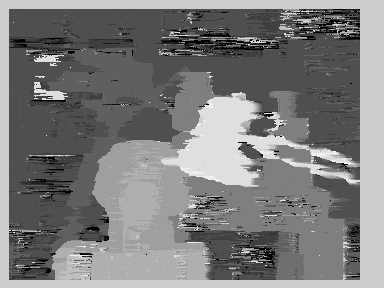
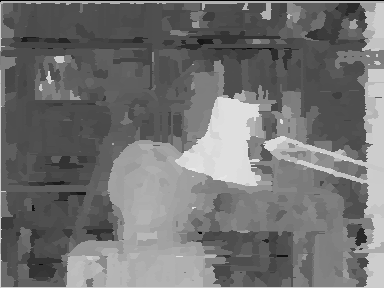
add result image file

diff --git a/disparityMap/matching/main.cpp b/disparityMap/matching/main.cpp
@@ -16,17 +16,17 @@ int main() {
 	IplImage* leftColorImage = cvLoadImage("tsukuba_l.png", 1);
 	IplImage* rightGrayImage = cvLoadImage("tsukuba_r.png", 0);
 
-	DisparityMapMaker disparityMapMaker(8, 16, SIMDintrinsicSSDtype::getInstance());
-	SegmentMarkersMaker segmentMarkersMaker(10);
+	DisparityMapMaker disparityMapMaker(2, 16, SSDtype::getInstance());
+	SegmentMarkersMaker segmentMarkersMaker(8);
 
 	TimePrinter time;
 	std::shared_ptr<IplImage> disparityMap(disparityMapMaker.getDisparityMapPtr(leftGrayImage, rightGrayImage));
 	std::shared_ptr<CvMat> segmentMarkers(segmentMarkersMaker.getSegmentMarkers(leftColorImage));
-	std::shared_ptr<IplImage> segmentedDisparityMap(segmentMarkersMaker.getSegmentedDisparityMap(disparityMap.get(), segmentMarkers.get()));
+	disparityMap = segmentMarkersMaker.getSegmentedDisparityMap(disparityMap.get(), segmentMarkers.get());
 	time.end();
 
 	cvSaveImage("matching.png", disparityMap.get());
-	showImageAndStop(segmentedDisparityMap.get());
+	showImageAndStop(disparityMap.get());
 	
 	return 0;
 }
